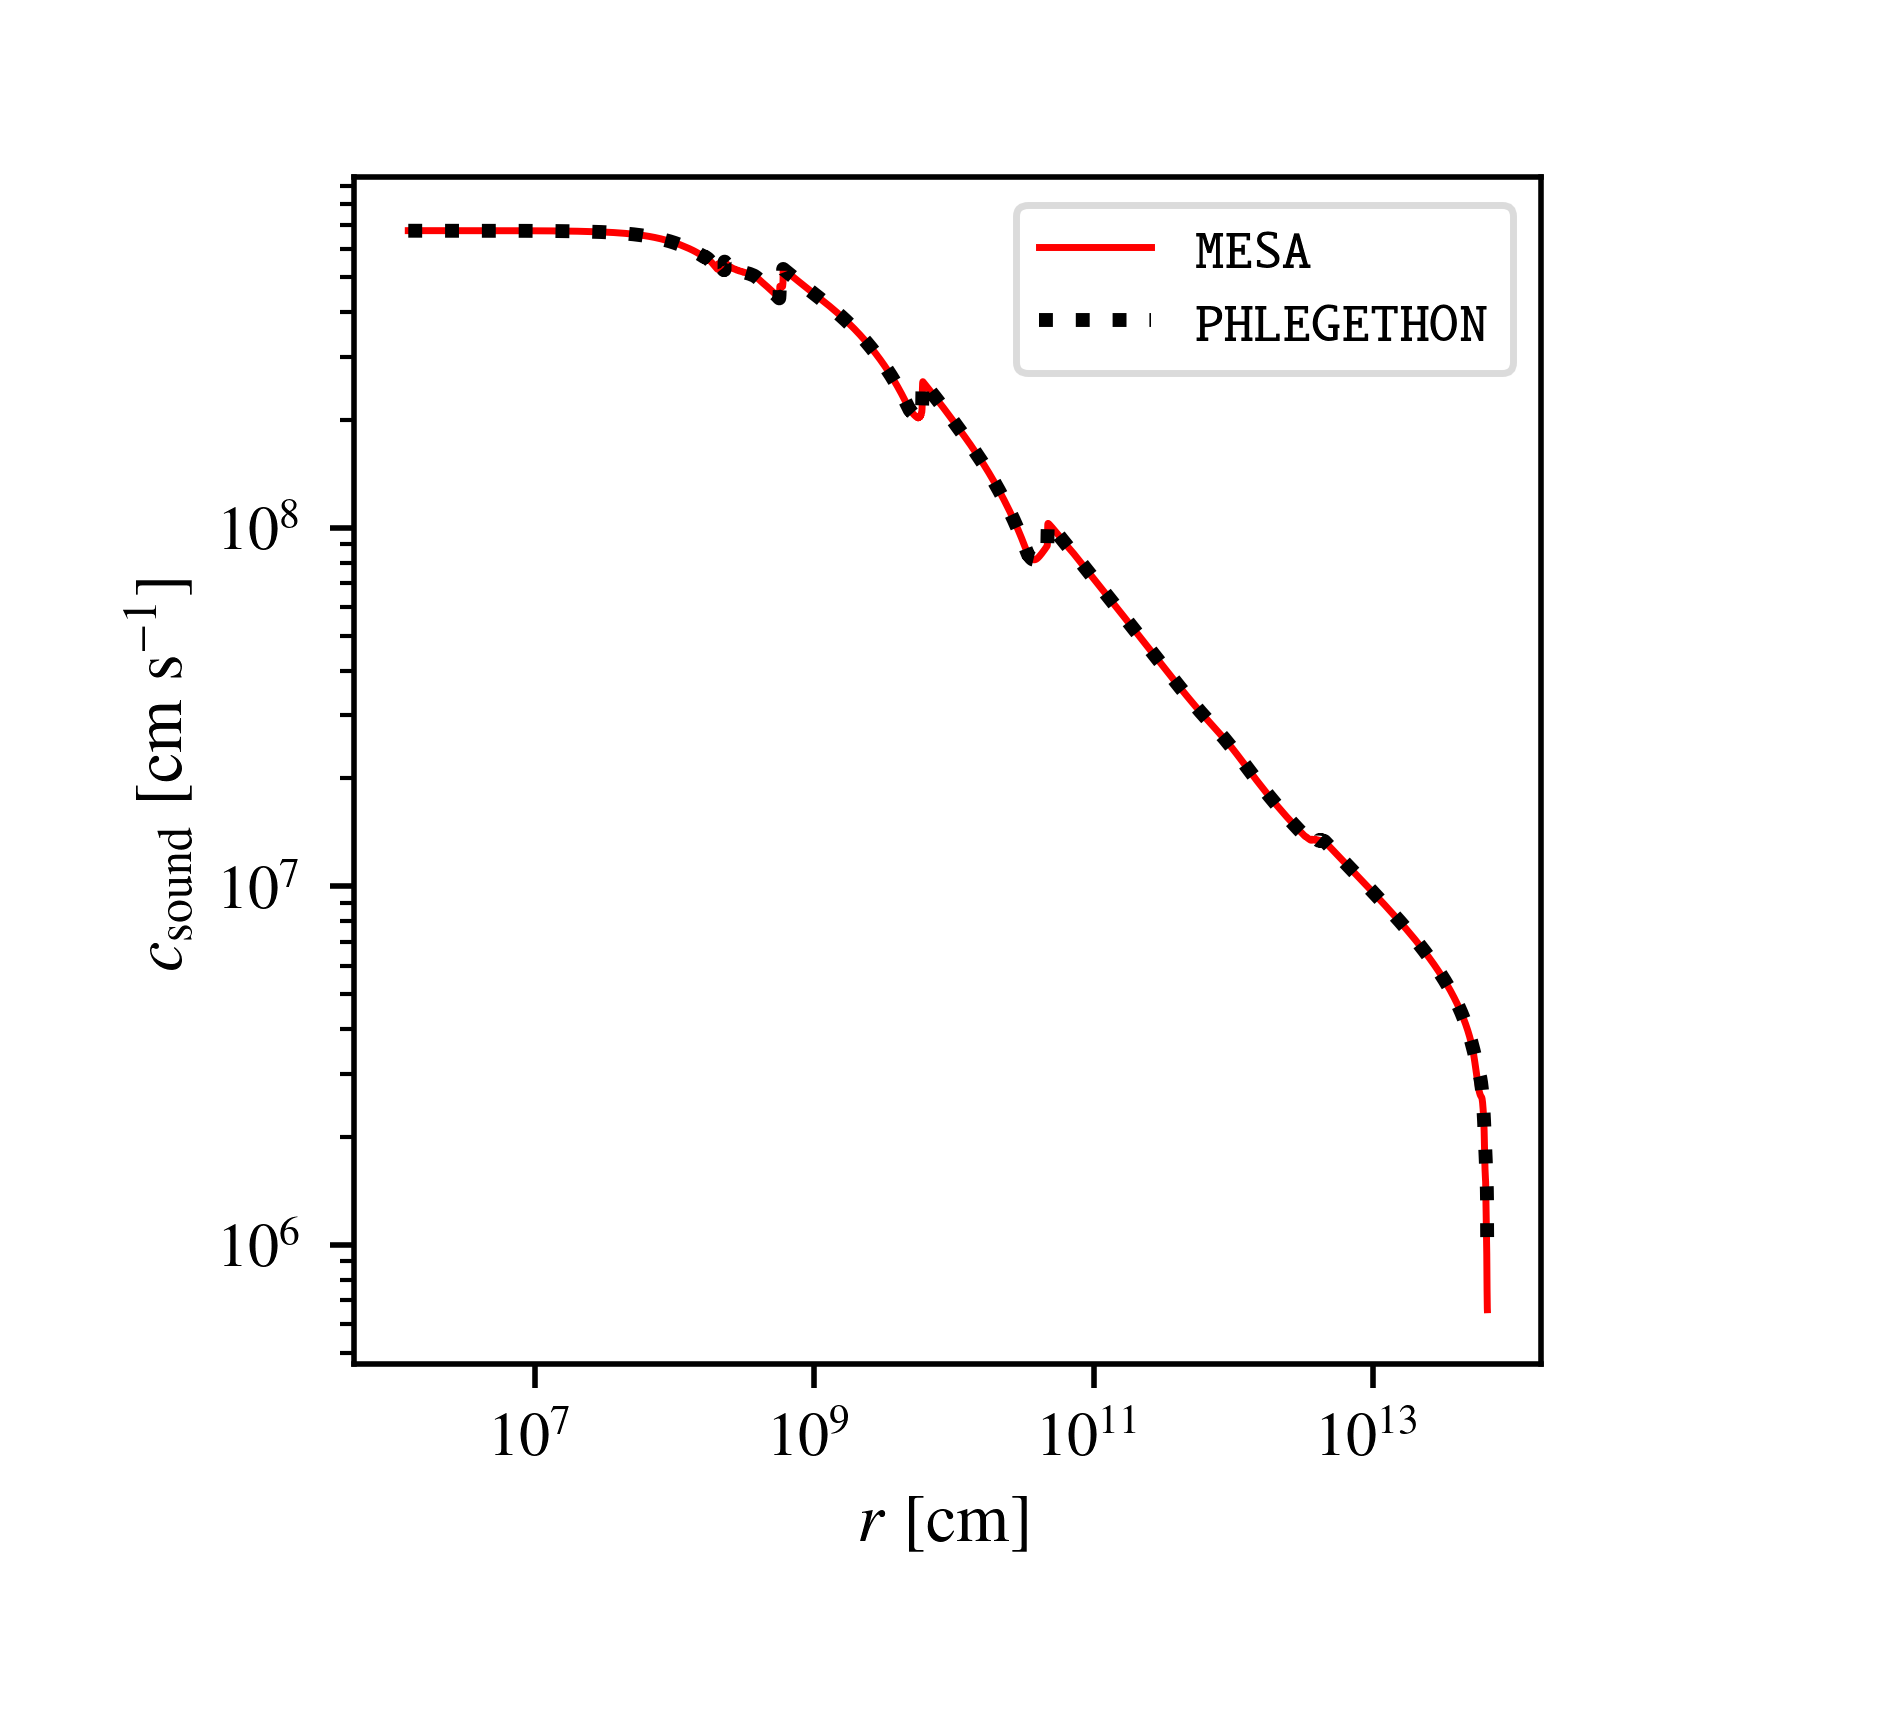
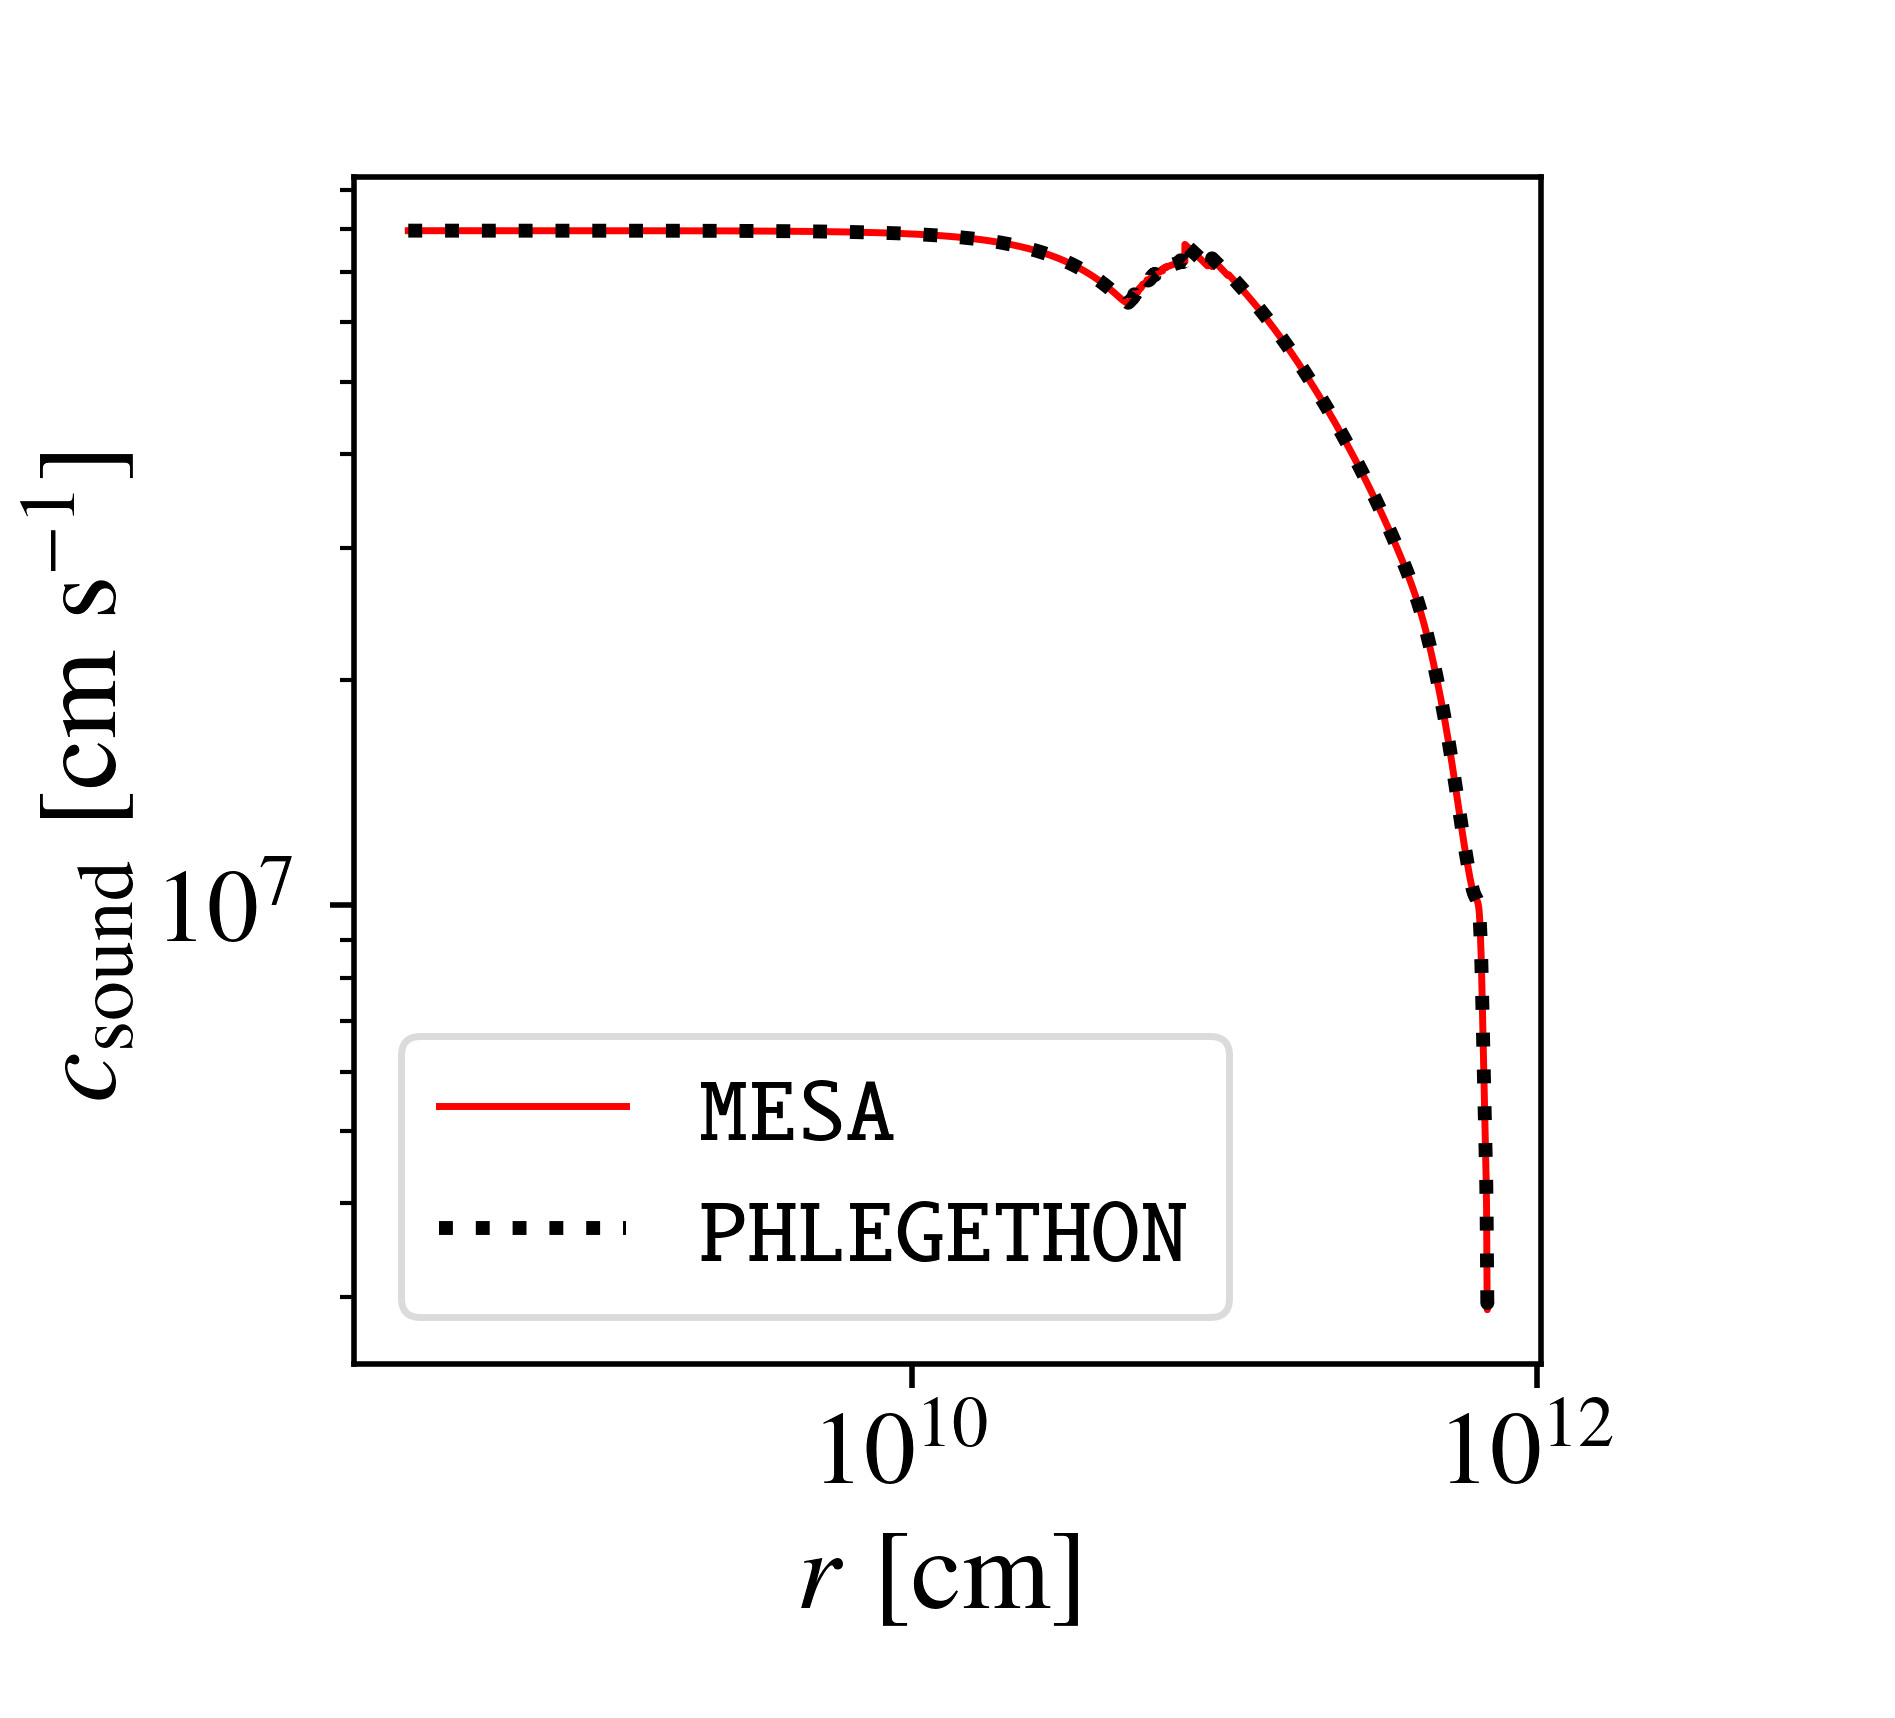
eos documentation and test

diff --git a/miscellaneous/eos/test.py b/miscellaneous/eos/test.py
@@ -26,12 +26,12 @@ eos_mode = ['ions','radiation','elepos','coulomb']
 
 #load a test MESA model
 # Load local minimal MESA reader module
-mesa_reader_pointer = './mesa_minireader.py'
+mesa_reader_pointer = '../create_input_library/mesa_minireader.py'
 spec_mesa = importlib.util.spec_from_file_location('mesa_minireader', mesa_reader_pointer)
 mesa_reader = importlib.util.module_from_spec(spec_mesa)
 spec_mesa.loader.exec_module(mesa_reader)
 
-mesa_data = './profile1107.data'
+mesa_data = '../mesa_profile_for_tests/profile10.data'
 mesa = mesa_reader.load_mesa_profile(
   filename=mesa_data,
   profile_names=['r', 'rho', 'Abar', 'Zbar', 'P', 'T', 's', 'sound'],

diff --git a/miscellaneous/eos/README.md b/miscellaneous/eos/README.md
@@ -53,7 +53,9 @@ Or for an EOS-only example you can use the following:
 cd miscellaneous/eos
 python test.py
 ```
-Note: `miscellaneous/eos/test.py` uses `mesa_minireader.py` and `profile1107.data`.
+The test calls the EOS fuctions and finally reproduces the MESA sound speed profile and saves the plot in `sound.png`.
+
+Note: `miscellaneous/eos/test.py` uses `miscellaneous/create_input_library/mesa_minireader.py` and `miscellaneous/mesa_profile_for_tests/profile10.data`.
 Don't forget to define the `mesa_reader_pointer` although the default should work.
 
 
